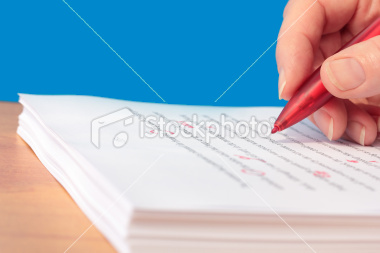
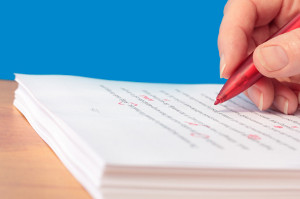
configure sendgrid for email

diff --git a/templates/home.html b/templates/home.html
@@ -7,7 +7,7 @@ Home
   <div class="home-content span10 offset1 shadow">
     <div class="row">
       <div class="home-left span4">
-	<img src="{{STATIC_URL}}img/editor.jpg" height=253 width=380></img>
+	<img src="{{STATIC_URL}}img/editor.jpg" height=199 width=300></img>
       </div>
       <div class="home-right span5 offset1">
 	<div class="row">

diff --git a/templates/contact.html b/templates/contact.html
@@ -8,7 +8,7 @@
     Email
   </h4>
   <p>
-    support@sciencewritingexperts.com
+    <a href="mailto:support@sciencewritingexperts.com">support@sciencewritingexperts.com</a>
   </p>
   <h4>
     Mailing Address

diff --git a/swe/views.py b/swe/views.py
@@ -90,41 +90,38 @@ def login(request):
         c = RequestGlobalContext(request, { 'form': form })
         return HttpResponse(t.render(c))
 
-def logout(request):
 
+def logout(request):
     # The form is just a link defined in the template. This should be by post only.
     if request.method == 'POST':
         auth.logout(request)
     return HttpResponseRedirect('/home/')
 
+
 def account(request):
     if settings.BLOCK_SERVICE:
         return HttpResponseRedirect('/comebacksoon/')
-
     if not request.user.is_authenticated():
         return HttpResponseRedirect('/login/')
     t = loader.get_template('todo.html')
     c = RequestGlobalContext(request, {'text': 'Account page'})
     return HttpResponse(t.render(c))
 
+
 def order(request):
     if settings.BLOCK_SERVICE:
         return HttpResponseRedirect('/comebacksoon/')
-
     from swe.models import WordCountRange, Subject, ServiceType, Document
     if not request.user.is_authenticated():
         return HttpResponseRedirect('/register/')
-    
     if request.method == 'POST':
         form = SubmitManuscriptForm(request.POST, request.FILES)
         if form.is_valid():
             new_data=form.cleaned_data;
-
             #submit manusript
             word_count_range=WordCountRange.objects.get(word_count_range_id=new_data[u'wordcount'])
             service_type=ServiceType.objects.get(service_type_id=new_data[u'servicetype'])
             subject=Subject.objects.get(subject_id=new_data[u'subject'])
-
             m = ManuscriptOrder(
                 title=new_data[u'title'],
                 word_count_range=word_count_range,
@@ -133,12 +130,9 @@ def order(request):
                 customer=request.user,
                 datetime_submitted=datetime.datetime.utcnow().replace(tzinfo=utc),
                 )
-
             days_until_due = service_type.hours_until_due/24
-
             m.datetime_due = datetime.datetime.utcnow().replace(tzinfo=utc) + datetime.timedelta(days_until_due)
             m.save()
-
             d = OriginalDocument(
                 manuscript_order = m,
                 manuscript_file=request.FILES[u'manuscriptfile'],
@@ -146,12 +140,9 @@ def order(request):
                 datetime_uploaded=datetime.datetime.utcnow().replace(tzinfo=utc),
                 )
             d.save()
-
             m.current_document_version = Document.objects.get(id=d.document_ptr_id)
             m.save()
-
             messages.add_message(request,messages.SUCCESS, 'Your manuscript was uploaded.')
-
             t = loader.get_template('todo.html')
             c = RequestGlobalContext(request, {'text': 'Go somewhere after file upload'})
             return HttpResponse(t.render(c))
@@ -164,7 +155,6 @@ def order(request):
                 'form': form
             })
             return HttpResponse(t.render(c))
-
     else:
         form = SubmitManuscriptForm()
         t = loader.get_template('submitmanuscript.html')
@@ -173,11 +163,13 @@ def order(request):
         })
         return HttpResponse(t.render(c)) 
 
+
 def create_activation_key(user):
     # Build the activation key for their account
     salt = sha.new(str(random.random())).hexdigest()[:5]
     activation_key = sha.new(salt+user.email).hexdigest()
     return activation_key
+
 
 def get_activation_key_expiration():
     key_expires = datetime.datetime.today() + datetime.timedelta(2)
@@ -187,29 +179,23 @@ def get_activation_key_expiration():
 def register(request):
     if settings.BLOCK_SERVICE:
         return HttpResponseRedirect('/comebacksoon/')
-
     if request.user.is_authenticated():
         # They already have an account; don't let them register again
         messages.add_message(request,messages.INFO,'You already have an account. To register a separate account, please logout.')
         return HttpResponseRedirect('/home/')
-
     if request.method == 'POST':
         form = RegisterForm(request.POST)
         if form.is_valid():
             new_data = form.cleaned_data;
-
             new_user = User.objects.create_user(username = new_data['email'],
                                                 email = new_data['email'],
                                                 password = new_data['password'])
             new_user.is_active = False
             new_user.first_name = new_data['firstname']
             new_user.last_name = new_data['lastname']
-
             new_user.save()
-
             activation_key = create_activation_key(new_user)
             key_expires = get_activation_key_expiration()
-
             # Create and save their profile
             new_profile = UserProfile(user=new_user,
                                       activation_key=activation_key,
@@ -217,14 +203,11 @@ def register(request):
                                       active_email=new_data['email'],
                                       active_email_confirmed=False,
                                       )
-
             # Send an email with the confirmation link
             email_subject = 'Your new Science Writing Experts account confirmation'
             email_body = "Hello %s,\n\nThank you for registering at Science Writing Experts.\n\nTo activate your account, please click this link within 48 hours:\n\nhttp://sciencewritingexperts.com/confirm/%s\n\nOr visit http://sciencewritingexperts.com/confirm and enter this activation key:\n\n%s\n\nSincerely,\nNathan Hammond\nDirector of Customer Satisfaction\n" % ( new_user.first_name, new_profile.activation_key, new_profile.activation_key)
-            send_mail(email_subject, email_body, 'accounts@sciencewritingexperts.com', [new_user.email])
-
+            send_mail(email_subject, email_body, 'support@sciencewritingexperts.com', [new_user.email], fail_silently=False)
             new_profile.save()
-
             messages.add_message(request,messages.SUCCESS,
                 'An activation key has been sent to your email address.')
             return HttpResponseRedirect('/confirm/')
@@ -244,10 +227,10 @@ def register(request):
             })
         return HttpResponse(t.render(c))
 
+
 def confirm(request, activation_key=None):
     if settings.BLOCK_SERVICE:
         return HttpResponseRedirect('/comebacksoon/')
-
     if request.method=='POST':
         # POST
         form = ConfirmForm(request.POST)
@@ -287,64 +270,62 @@ def confirm(request, activation_key=None):
             form = ConfirmForm(initial={'activation_key':activation_key})
         else:
             form = ConfirmForm()
-
         t = loader.get_template('confirm.html')
         c = RequestGlobalContext(request, {'form': form })
         return HttpResponse(t.render(c))
 
+
 def activationrequest(request):
     if settings.BLOCK_SERVICE:
         return HttpResponseRedirect('/comebacksoon/')
-
     if request.method=='POST':
         form = ActivationRequestForm(request.POST)
         if form.is_valid():
-
             user = User.objects.get(username=form.cleaned_data[u'email'])
             activation_key = create_activation_key(user)
             key_expires = get_activation_key_expiration()
-
             profile = UserProfile.objects.get(user=user)
             profile.activation_key = activation_key
             profile.key_expires = key_expires
-
             # Send an email with the confirmation link
             email_subject = 'Your new Science Writing Experts account confirmation'
             email_body = "Hello %s,\n\nThank you for registering at Science Writing Experts.\n\nTo activate your account, please click this link within 48 hours:\n\nhttp://sciencewritingexperts.com/confirm/%s\n\nOr visit http://sciencewritingexperts.com/confirm and enter this activation key:\n\n%s\n\nSincerely,\nNathan Hammond\nDirector of Customer Satisfaction\n" % ( user.first_name, profile.activation_key, profile.activation_key)
-            send_mail(email_subject, email_body, 'accounts@sciencewritingexperts.com', [user.email])
-
+            send_mail(email_subject, email_body, 'accounts@sciencewritingexperts.com', [user.email], fail_silently=False)
             profile.save()
-
             messages.add_message(request,messages.SUCCESS,'A new activation key has been sent to your email address.')
             return HttpResponseRedirect('/confirm/')
         else:
             messages.add_message(request,messages.ERROR,MessageCatalog.form_invalid)
     else:
         form = ActivationRequestForm()
-
     t = loader.get_template('activation-request.html')
     c = RequestGlobalContext(request, { 'form': form })
     return HttpResponse(t.render(c))
+
 
 def privacy(request):
     t = loader.get_template('privacy.html')
     c = RequestGlobalContext(request, {})
     return HttpResponse(t.render(c))
 
+
 def terms(request):
     t = loader.get_template('terms.html')
     c = RequestGlobalContext(request, {})
     return HttpResponse(t.render(c))
+
 
 def careers(request):
     t = loader.get_template('careers.html')
     c = RequestGlobalContext(request,{})
     return HttpResponse(t.render(c))
 
+
 def contact(request):
     t = loader.get_template('contact.html')
     c = RequestGlobalContext(request,{})
     return HttpResponse(t.render(c))
+
 
 def block(request):
     t = loader.get_template('block.html')

diff --git a/settings.py b/settings.py
@@ -1,16 +1,16 @@
 # Django settings for swe project.
 import os
 
-RACK_ENV=os.environ['RACK_ENV']
+RACK_ENV=os.environ['RACK_ENV'] #development, staging, production
 
-BLOCK_SERVICE = False
+BLOCK_SERVICE = False #unless True in environment
 try:
     b = (os.environ['BLOCK_SERVICE'].upper()=='TRUE')
     BLOCK_SERVICE = b
 except KeyError:
     pass
 
-DEBUG = False
+DEBUG = False #unless True in environment
 try:
     d = (os.environ['DEBUG'].upper()=='TRUE')
     DEBUG = d
@@ -82,6 +82,12 @@ else:
     AWS_STORAGE_BUCKET_NAME = os.environ['S3_BUCKET_NAME']
     STATIC_URL = 'https://'+AWS_STORAGE_BUCKET_NAME+'.s3.amazonaws.com/'
     STATICFILES_STORAGE = 'storages.backends.s3boto.S3BotoStorage'
+
+EMAIL_HOST = 'smtp.sendgrid.net'
+EMAIL_HOST_USER = os.environ['SENDGRID_USERNAME']
+EMAIL_HOST_PASSWORD = os.environ['SENDGRID_PASSWORD']
+EMAIL_PORT = 587
+EMAIL_USE_TLS = True
 
 # Make this unique, and don't share it with anybody.
 SECRET_KEY = '9e$#^u)-7xkr8w0=qi**o*p&amp;pe!f*l#0st@bmul2invw*incc='
